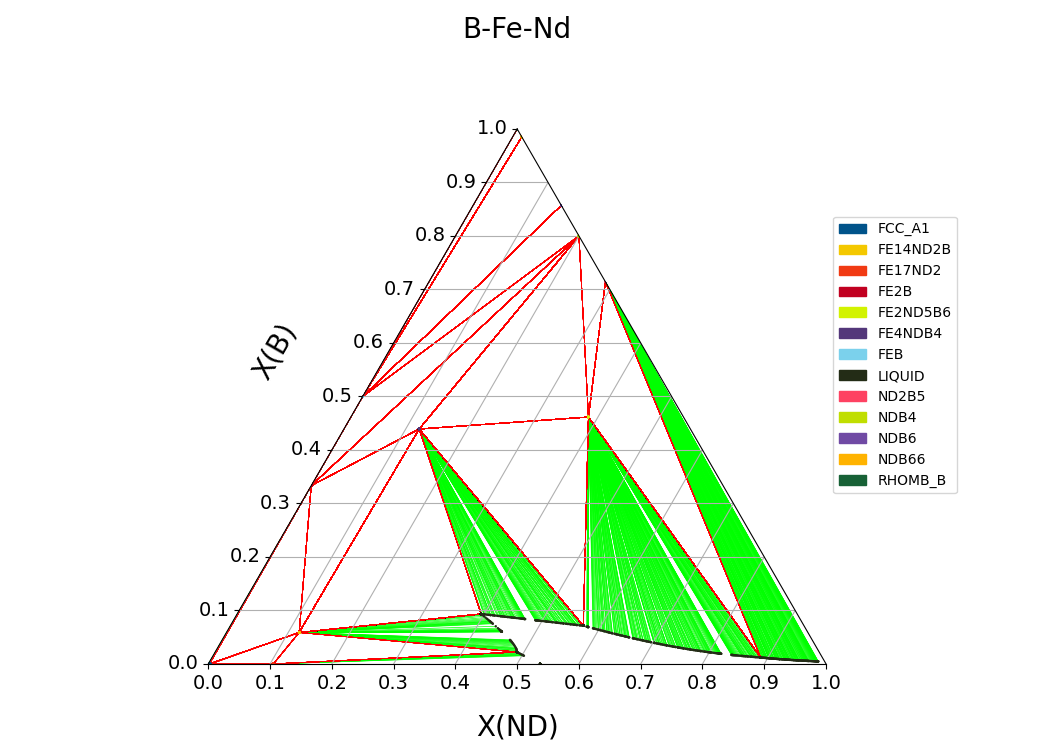
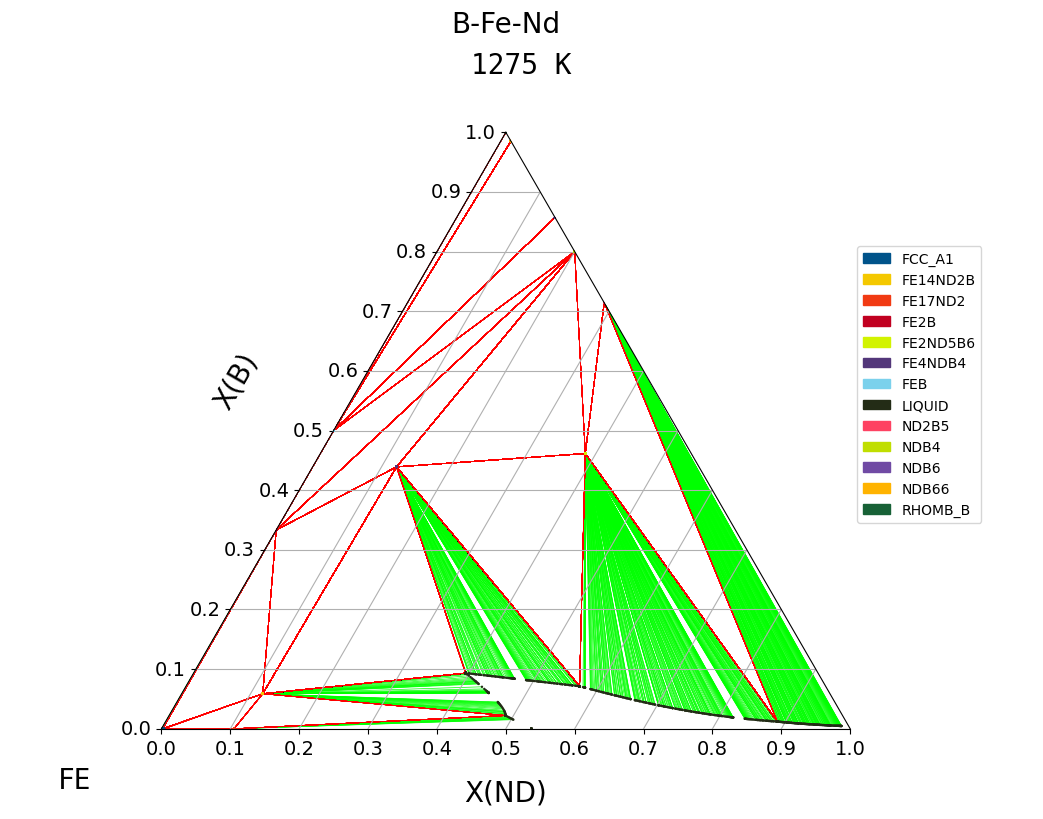
WSL2(ubuntu 22.04 LTS) on win11

diff --git a/B-Fe-Nd/ternary-BFeNd.py b/B-Fe-Nd/ternary-BFeNd.py
@@ -3,11 +3,27 @@ import matplotlib.pyplot as plt
 from pycalphad import Database, ternplot
 from pycalphad import variables as v
 
-tdb = Database('bfend_hal.tdb') # You can get 'alcrni_dup.tdb' file from CPDDB.
-comps = ['B', 'FE', 'ND', 'VA']
-phases = list(tdb.phases.keys())
-conds = {v.T: 1275, v.P:101325, v.X('ND'): (0,1,0.015), v.X('B'): (0,1,0.015)}
+#------User input area--------
+tdb_file = 'bfend_hal.tdb' # from TDBDB (https://avdwgroup.engin.brown.edu/)
+ELA = 'Nd'  # x-axis
+ELB = 'Fe' # lower left side
+ELC = 'B' # y-axis
+Temp = 1275 # [K]
+#------User input area--------
+# It is preferable to specify elements in "ELA, ELB and ELC" in alphabetical order.
 
-ternplot(tdb, comps, phases, conds, x=v.X('ND'), y=v.X('B'))
+ELA = ELA.upper ()
+ELB = ELB.upper ()
+ELC = ELC.upper ()
+
+tdb = Database(tdb_file)
+comps = [ELA, ELB, ELC, 'VA']
+phases = list(tdb.phases.keys())
+conds = {v.T: Temp, v.P:101325, v.X(ELA): (0,1,0.015), v.X(ELC): (0,1,0.015)}
+
+ternplot(tdb, comps, phases, conds, x=v.X(ELA), y=v.X(ELC))
+
+plt.text(-0.1, -0.1, ELB, family='monospace', fontsize=20)
+plt.text(-0.1, 1.1, str(Temp)+' K', family='monospace', fontsize=20)
 
 plt.show()

diff --git a/Al-Cr-Ni/ternary-AlCrNi.py b/Al-Cr-Ni/ternary-AlCrNi.py
@@ -10,6 +10,7 @@ ELB = 'Ni' # lower left side
 ELC = 'Al' # y-axis
 Temp = 1573 # [K]
 #------User input area--------
+# It is preferable to specify elements in "ELA, ELB and ELC" in alphabetical order.
 
 ELA = ELA.upper ()
 ELB = ELB.upper ()

diff --git a/README.md b/README.md
@@ -63,11 +63,20 @@
 - An example of changing the order of element descriptions.
 
 
+## Example: B-Fe-Nd (easier user input)
+1. cd ~/pycalphad-v.0.10.3-examples
+2. cd B-Fe-Nd
+3. (You can get mmc1.TDB from TDBDB (https://avdwgroup.engin.brown.edu/)
+4. python3 ternary-BFeNd.py
+- An example of changing the order of element descriptions.
+
+
 ## Example: Al-Cr-Ni (easier user input)
 1. cd ~/pycalphad-v.0.10.3-examples
 2. cd Al-Cr-Ni
 3. (You can get alcrni_dup.tdb from CPDDB (Multicomponent Systems))
 4. python3 ternary-AlCrNi.py
+- An example of changing the order of element descriptions.
 
 
 ## TDB files
